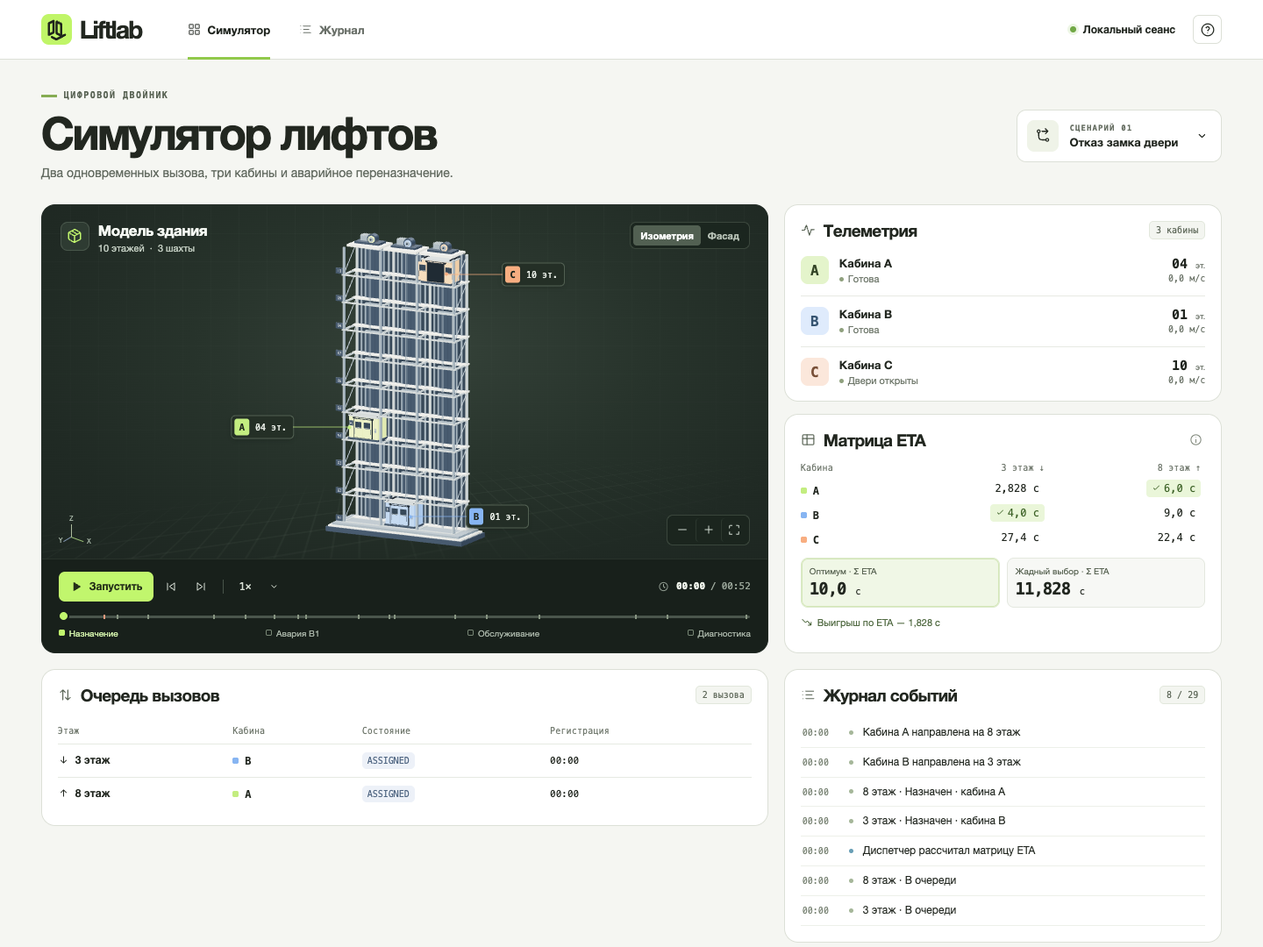
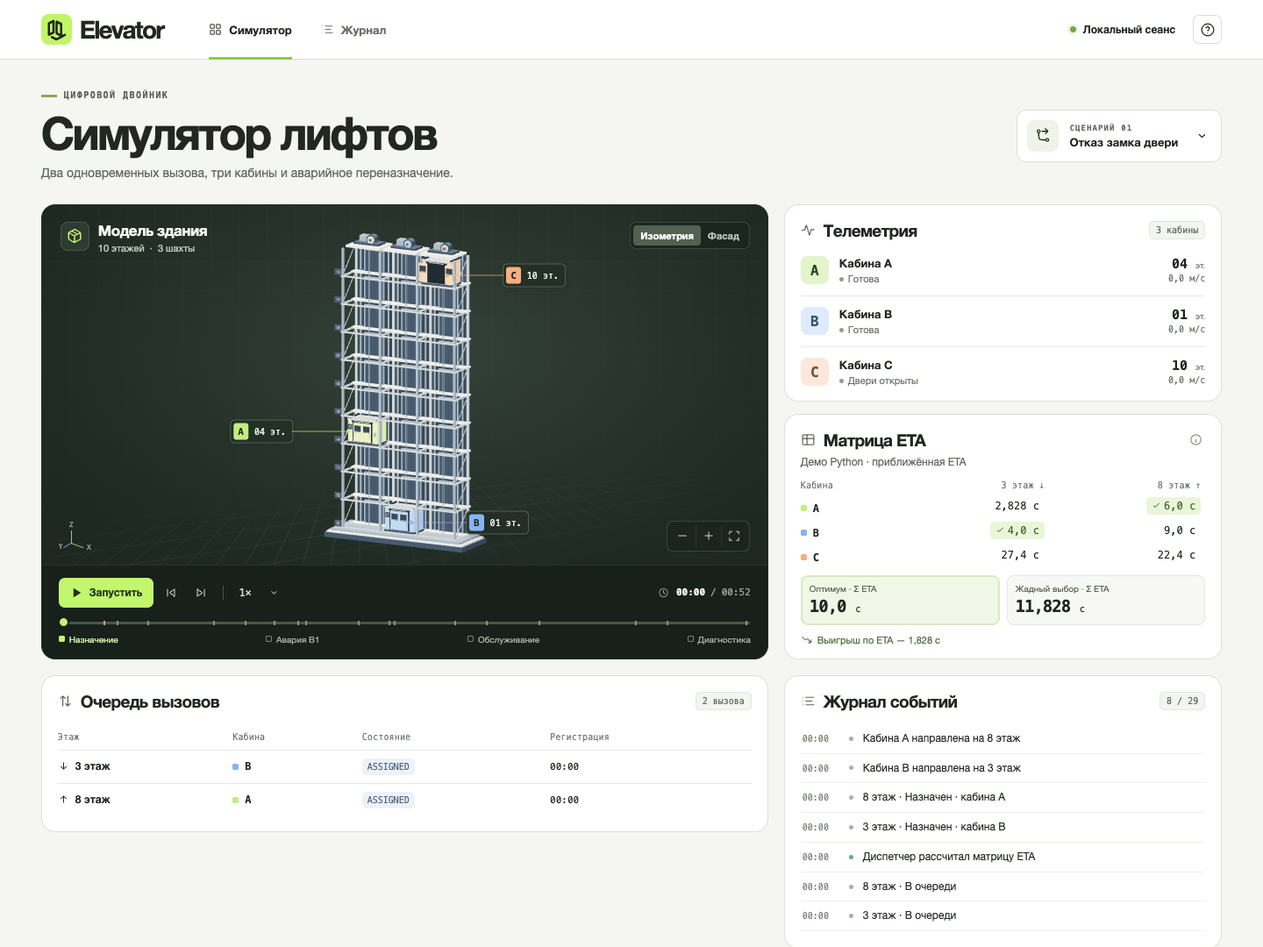
Уточнить источник ETA и сократить комплект Elevator

diff --git a/viz/viewer/src/main.ts b/viz/viewer/src/main.ts
@@ -29,12 +29,6 @@ const states: Record<Status, string> = {
   ARRIVED: 'Прибытие',
   SERVED: 'Обслужен',
 }
-const safe = (s: string) =>
-  s.replace(
-    /[&<>"']/g,
-    (c) => ({ '&': '&amp;', '<': '&lt;', '>': '&gt;', '"': '&quot;', "'": '&#39;' })[c]!,
-  )
-
 function description(e: ModelEvent) {
   if (e.type === 'CALL')
     return e.floor + ' этаж · ' + states[e.state!] + (e.car ? ' · кабина ' + e.car : '')
@@ -52,7 +46,7 @@ function description(e: ModelEvent) {
     DIAGNOSTICS: 'Диагностика блокировки кабины ' + e.car,
     RESET: 'Сценарий сброшен',
   }
-  return titles[e.type] ?? e.type
+  return Object.hasOwn(titles, e.type) ? titles[e.type] : e.type
 }
 iconsIn(document)
 const dialog = el<HTMLDialogElement>('dialog')
@@ -73,6 +67,14 @@ async function start() {
   const response = await fetch(timelineUrl)
   if (!response.ok) throw new Error('Не удалось загрузить timeline.json')
   const line = parseTimeline(await response.json())
+  const demo = line.source === 'python-demo'
+  el('matrix-source').textContent = demo
+    ? 'Демо Python · приближённая ETA'
+    : line.source === 'rust-sil'
+      ? 'Источник: Rust SIL'
+      : line.source
+        ? 'Источник: ' + line.source
+        : 'Источник записи не указан'
   let time = 0,
     index = lastEventAt(line, 0),
     playing = false,
@@ -88,23 +90,23 @@ async function start() {
     { name: 'Авария B1', index: alarmIndex },
     { name: 'Обслуживание', index: line.events.findIndex((e) => e.state === 'SERVED') },
     { name: 'Диагностика', index: line.events.findIndex((e) => e.type === 'DIAGNOSTICS') },
-  ]
-  const phaseButtons = phases
-    .map((p) => '<button data-go="' + p.index + '">' + p.name + '</button>')
-    .join('')
-  el('chapters').innerHTML = phaseButtons
+  ].filter((phase) => phase.index >= 0)
+  const phaseButtons = phases.map((phase) => {
+    const button = document.createElement('button')
+    button.dataset.go = String(phase.index)
+    button.textContent = phase.name
+    return button
+  })
+  el('chapters').replaceChildren(...phaseButtons)
   el('total').textContent = clock(line.durationMs)
   scrub.max = String(line.durationMs)
-  el('event-marks').innerHTML = [...new Set(line.events.map((e) => e.tMs))]
-    .map(
-      (t) =>
-        '<b class="tick ' +
-        (t === line.events[alarmIndex].tMs ? 'alarm' : '') +
-        '" style="left:' +
-        (100 * t) / line.durationMs +
-        '%"></b>',
-    )
-    .join('')
+  const marks = [...new Set(line.events.map((e) => e.tMs))].map((t) => {
+    const mark = document.createElement('b')
+    mark.className = t === line.events[alarmIndex]?.tMs ? 'tick alarm' : 'tick'
+    mark.style.left = (100 * t) / line.durationMs + '%'
+    return mark
+  })
+  el('event-marks').replaceChildren(...marks)
   el('cars').innerHTML = carIds
     .map(
       (id) =>
@@ -266,22 +268,19 @@ async function start() {
     if (index !== lastPanel) {
       el('matrix').innerHTML = matrix(s)
       el('calls').innerHTML = calls(s)
-      el('log').innerHTML = line.events
-        .slice(0, index + 1)
-        .map(
-          (e, i) =>
-            '<button class="log-row" data-log="' +
-            i +
-            '"><time>' +
-            clock(e.tMs) +
-            '</time><span class="log-dot ' +
-            safe(e.type) +
-            '"></span><span>' +
-            safe(description(e)) +
-            '</span></button>',
-        )
-        .reverse()
-        .join('')
+      const logRows = line.events.slice(0, index + 1).map((event, i) => {
+        const button = document.createElement('button')
+        button.className = 'log-row'
+        button.dataset.log = String(i)
+        const time = document.createElement('time')
+        time.textContent = clock(event.tMs)
+        const dot = document.createElement('span')
+        dot.className = 'log-dot'
+        if (['ALARM', 'LOCKED', 'DISPATCH'].includes(event.type)) dot.classList.add(event.type)
+        button.append(time, dot, description(event))
+        return button
+      })
+      el('log').replaceChildren(...logRows.reverse())
       el('journal-count').textContent = index + 1 + ' / ' + line.events.length
       const chapter = phases.filter((p) => p.index <= index).at(-1)
       el('chapters')
@@ -405,7 +404,10 @@ async function start() {
   el('matrix-info').onclick = () =>
     explain(
       'Как считается ETA',
-      '<p>Значение в ячейке — модельное время до точной остановки на этаже. Расчёт учитывает движение, направление и остаток цикла дверей.</p><p>Диспетчер сначала назначает максимум допустимых пар, затем минимизирует сумму ETA. Нажмите итог «Оптимум» или «Жадный выбор», чтобы увидеть соответствующие пары с галочками. Прочерк означает запрет назначения.</p><p>Для сравнения жадный алгоритм обрабатывает вызовы по порядку регистрации. Каждый раз он выбирает ближайшую по расстоянию свободную кабину с завершённым циклом дверей.</p>',
+      (demo
+        ? '<p>В демо Python время до остановки рассчитано по прямому пути с примерным ускорением и остатком цикла дверей. Контрольный сценарий Rust использует собственную модель движения и остановок.</p>'
+        : '<p>Время до остановки, допустимые пары и назначения взяты из загруженной записи.</p>') +
+        '<p>Диспетчер сначала назначает максимум допустимых пар, затем минимизирует сумму ETA. Нажмите итог «Оптимум» или «Жадный выбор», чтобы увидеть соответствующие пары с галочками. Прочерк означает запрет назначения.</p><p>Для сравнения жадный алгоритм обрабатывает вызовы по порядку регистрации. Каждый раз он выбирает ближайшую по расстоянию свободную кабину с завершённым циклом дверей.</p>',
       'matrix',
     )
   el('scenario-info').onclick = () =>

diff --git a/viz/viewer/src/timeline.ts b/viz/viewer/src/timeline.ts
@@ -46,6 +46,7 @@ type Door = {
 }
 export type Timeline = {
   schemaVersion: 1
+  source?: string
   durationMs: number
   initial: Record<Car, number>
   calls: Call[]
@@ -77,6 +78,10 @@ export function parseTimeline(data: unknown): Timeline {
   check(
     record(data) && data.schemaVersion === 1 && integer(data.durationMs) && data.durationMs > 0,
     'версия или длительность',
+  )
+  check(
+    data.source === undefined || (typeof data.source === 'string' && data.source.trim().length > 0),
+    'источник записи',
   )
   const { initial, calls, events, motions, doors, durationMs } = data
   check(record(initial) && carIds.every((id) => integer(initial[id])), 'позиции')
@@ -138,10 +143,12 @@ export function parseTimeline(data: unknown): Timeline {
     )
     previous = e.tMs
     if (e.car !== undefined) check(car(e.car), 'кабина')
+    if (e.floor !== undefined) check(floor(e.floor), 'этаж события')
     if (e.type === 'CALL' || e.type === 'REQUEUE')
       check(
         ids.has(e.call) &&
-          ['QUEUED', 'ASSIGNED', 'ARRIVED', 'SERVED'].includes(String(e.state)) &&
+          typeof e.state === 'string' &&
+          ['QUEUED', 'ASSIGNED', 'ARRIVED', 'SERVED'].includes(e.state) &&
           integer(e.registeredMs),
         'переход вызова',
       )

diff --git a/viz/viewer/index.html b/viz/viewer/index.html
@@ -8,14 +8,14 @@
       name="description"
       content="Интерактивный цифровой двойник лифтовой группы. Три кабины, десять этажей и событийный диспетчер."
     />
-    <title>Liftlab — Симулятор лифтов</title>
+    <title>Elevator — Симулятор лифтов</title>
     <link rel="icon" type="image/svg+xml" href="/src/mark.svg" />
   </head>
   <body>
     <header class="topbar">
       <div class="topinner">
-        <a class="brand" href="#simulation" aria-label="Liftlab, к симулятору"
-          ><img src="/src/mark.svg" alt="" />Liftlab</a
+        <a class="brand" href="#simulation" aria-label="Elevator, к симулятору"
+          ><img src="/src/mark.svg" alt="" />Elevator</a
         >
         <nav aria-label="Основная навигация">
           <a href="#simulation" class="nav-item current" data-nav="simulation"
@@ -126,6 +126,7 @@
                 <i data-icon="info"></i>
               </button>
             </div>
+            <p class="matrix-source" id="matrix-source"></p>
             <div id="matrix"></div>
           </section>
         </aside>

diff --git a/viz/viewer/src/player.ts b/viz/viewer/src/player.ts
@@ -79,7 +79,7 @@ export function stateAt(
   const t = Math.max(0, Math.min(line.durationMs, Math.floor(time)))
   const state: Snapshot = {
     cars: {} as Record<Car, Cabin>,
-    calls: {},
+    calls: Object.create(null),
     alarm: null,
     index: eventIndex,
     reset: false,
@@ -91,8 +91,13 @@ export function stateAt(
     if (e.type === 'ALARM') state.alarm = e.car!
     if (e.type === 'LOCKED') locked = e.car
     if (e.type === 'RESET')
-      Object.assign(state, { alarm: null, calls: {}, dispatch: undefined, reset: true })
-    if (e.call && e.state) {
+      Object.assign(state, {
+        alarm: null,
+        calls: Object.create(null),
+        dispatch: undefined,
+        reset: true,
+      })
+    if ((e.type === 'CALL' || e.type === 'REQUEUE') && e.call && e.state) {
       const registered = line.calls.find((c) => c.id === e.call)!
       state.calls[e.call] = { ...registered, state: e.state, car: e.car }
     }

diff --git a/viz/viewer/src/player.test.ts b/viz/viewer/src/player.test.ts
@@ -15,7 +15,10 @@ describe('проигрыватель', () => {
   })
   it('применяет переходы вызовов только для событий CALL и REQUEUE', () => {
     const extra = { tMs: 0, type: 'NOTE', call: 'H08', state: 'комментарий' }
-    const timeline = parseTimeline({ ...raw, events: [raw.events[0], extra, ...raw.events.slice(1)] })
+    const timeline = parseTimeline({
+      ...raw,
+      events: [raw.events[0], extra, ...raw.events.slice(1)],
+    })
     expect(stateAt(timeline, 0, 1).calls).toEqual({})
   })
   it('совпадает с эталонными целыми миллиметрами Python', () => {

diff --git a/viz/viewer/src/style.css b/viz/viewer/src/style.css
@@ -991,6 +991,11 @@ main {
   font-weight: 450;
   letter-spacing: 0;
 }
+.matrix-source {
+  margin: 6px 0 0;
+  color: var(--muted);
+  font-size: 12px;
+}
 .matrix-note {
   display: flex;
   align-items: center;

diff --git a/viz/README.md b/viz/README.md
@@ -1,10 +1,10 @@
-# Liftlab · Симулятор лифтов
+# Elevator · Симулятор лифтов
 
 Локальная демонстрация на 52 секунды модельного времени. На 3-м и 8-м этажах одновременно вызывают лифт. Диспетчер назначает B и A. При прохождении шестого этажа кабиной A модель выдаёт событие B1. Кабина тормозит до 16 500 мм и блокируется между этажами. C забирает вызов 8-го этажа с исходным временем регистрации. После перевозки пассажиров следуют диагностика и сброс.
 
 ## Посмотреть в браузере
 
-Готовые модель и шкала событий лежат в `viz/out/`. Из корня рабочего дерева, с Node.js 22+ и npm, выполните
+Для запуска нужны два файла из `viz/out/` — `scene.glb` и `timeline.json`. Рядом лежит [скриншот интерфейса](out/preview-interface.png). Из корня рабочего дерева, с Node.js 22+ и npm, выполните
 
 ```sh
 cd viz/viewer
@@ -27,17 +27,23 @@ sh viz/blender/scene/build.sh
 python3 viz/blender/scene/check.py
 ```
 
-Python 3.10+ использует стандартную библиотеку. Скрипт запускает Blender 5.2.3 в фоне, экспортирует `scene.glb`, сверяет его с моделью и рендерит три PNG. Путь по умолчанию — `/Applications/Blender.app/Contents/MacOS/Blender`. Для другой установки задайте `BLENDER`. Каталог ресурсов и кеша — `viz/.cache/blender`. Аргумент `--skip-previews` пропускает рендер PNG.
+Python 3.10+ использует стандартную библиотеку. Скрипт запускает Blender 5.2.3 в фоне, экспортирует `scene.glb`, сверяет его с моделью и сохраняет три PNG ключевых событий в `viz/.cache/previews/`. Аргумент `--out DIR` направляет GLB и эти кадры в указанный каталог. Путь по умолчанию — `/Applications/Blender.app/Contents/MacOS/Blender`. Для другой установки задайте `BLENDER`. Каталог ресурсов и кеша — `viz/.cache/blender`. Аргумент `--skip-previews` пропускает рендер PNG.
+
+## Источник расчётов
+
+Включённую запись создаёт демонстрационный генератор Python. Он использует трапецеидальный или треугольный профиль и оценивает прямой путь до остановки. На матрице указано происхождение этих ETA.
+
+Эталон поведения лифтовой группы — Rust-ядро. Для контрольного прогона будущий экспортёр Rust SIL запишет в `timeline.json` траектории, состояния дверей, вызовы и готовые решения диспетчера. Blender и просмотрщик читают эту запись. Проверять S-кривую, фазы дверей, промежуточные остановки и вызовы из кабины следует по прогону ядра.
 
 ## Контракт данных
 
-`out/timeline.json`, версия 1. Порядок элементов `events` разрешает совпадения времени. Все времена даны в целых мс, положение в мм, скорость в мм/с. Начало координат — пол первого этажа, интервал между этажами 3000 мм.
+`out/timeline.json`, версия 1. Поле `source` указывает генератор. Демо записывает `python-demo`, для экспорта Rust SIL предусмотрено `rust-sil`. У старых записей источник может отсутствовать. Порядок элементов `events` разрешает совпадения времени. Все времена даны в целых мс, положение в мм, скорость в мм/с. Начало координат — пол первого этажа, интервал между этажами 3000 мм.
 
 - `initial`, `calls` задают высоты и исходные вызовы. `events` содержит регистрацию, расчёты, движение, тревогу, блокировку и сброс. `REQUEUE` сохраняет `registeredMs`. Переход в `SERVED` совпадает с полным открытием дверей.
 - `DISPATCH` хранит строки, столбцы, ETA, маску допустимости, пары и обе суммы. Ноль в маске запрещает назначение при любой ETA. Пустое значение в матрице обозначает отсутствие ETA. Оптимум перебирает допустимые назначения и выбирает максимум пар, затем минимум суммы. При равенстве приоритет у кабины с меньшим ID, затем у более раннего вызова, затем у меньшего ID вызова. Жадный алгоритм выбирает по расстоянию ближайшую свободную кабину с завершённым циклом дверей. После B1 он не назначает ни одной пары, а оптимум может зарезервировать C с учётом оставшегося ожидания.
 - `motions` хранит интервалы движения и фазы разгона, равномерного движения и торможения. Фаза задаёт длительность, смещение, путь и две скорости. Интеграл округляется к ближайшему мм, половины от нуля. В TypeScript для произведений используется `BigInt`. `golden.json` содержит общие эталонные точки. `doors` задаёт этаж, интервал и долю открытия от 0 до 1000.
-- Для другой панели достаточно импортировать `parseTimeline` из `viewer/src/timeline.ts` и `stateAt` из `viewer/src/player.ts`. Вызов `stateAt(timeline, tMs)` возвращает кабины, двери, вызовы, тревогу и матрицу. Третий аргумент выбирает конкретное событие в группе. Эти модули обходятся без DOM и Three.js.
+- Для другой панели достаточно импортировать `parseTimeline` из `viewer/src/timeline.ts` и `stateAt` из `viewer/src/player.ts`. Вызов `stateAt(timeline, tMs)` возвращает кабины, двери, вызовы, тревогу и матрицу. Третий аргумент выбирает конкретное событие в группе. Эти модули обходятся без DOM и Three.js. Blender использует общий читатель `blender/sim/playback.py`. Профиль v1 описывает линейное изменение скорости внутри фазы. При экспорте S-кривой из SIL потребуется согласовать точность её представления или расширить версию формата.
 
 ## Допущения
 
-В `config.json` параметры **примерные**. Предел скорости 3000 мм/с, ускорение 1500 мм/с², экстренное замедление 3000 мм/с². Профиль трапецеидальный или треугольный, без ограничения рывка. Ход дверей занимает 2,4 с, выдержка 5 с. A стартует на 4-м этаже, B на 1-м, C на 10-м с открытыми дверями и остатком выдержки 16 с. Для завершения демонстрации пассажиры едут на 1-й и 10-й этажи. Начальная сумма ETA составляет 10 с у оптимума и 11,828 с у жадного выбора. Прототип воспроизводит события локально. Источник истины для настоящего контроллера — Rust workspace.
+В `config.json` параметры **примерные**. Предел скорости 3000 мм/с, ускорение 1500 мм/с², экстренное замедление 3000 мм/с². Профиль трапецеидальный или треугольный, без ограничения рывка. Ход дверей занимает 2,4 с, выдержка 5 с. A стартует на 4-м этаже, B на 1-м, C на 10-м с открытыми дверями и остатком выдержки 16 с. Для завершения демонстрации пассажиры едут на 1-й и 10-й этажи. Эта выставочная расстановка даёт 10,0 с у оптимума и 11,828 с у жадного выбора. Для контрольной расстановки в [ТЗ проекта](../README.md) приведены отдельные примерные суммы 11,03 с и 29,4 с. Каждую пару чисел следует читать в контексте своего сценария.
